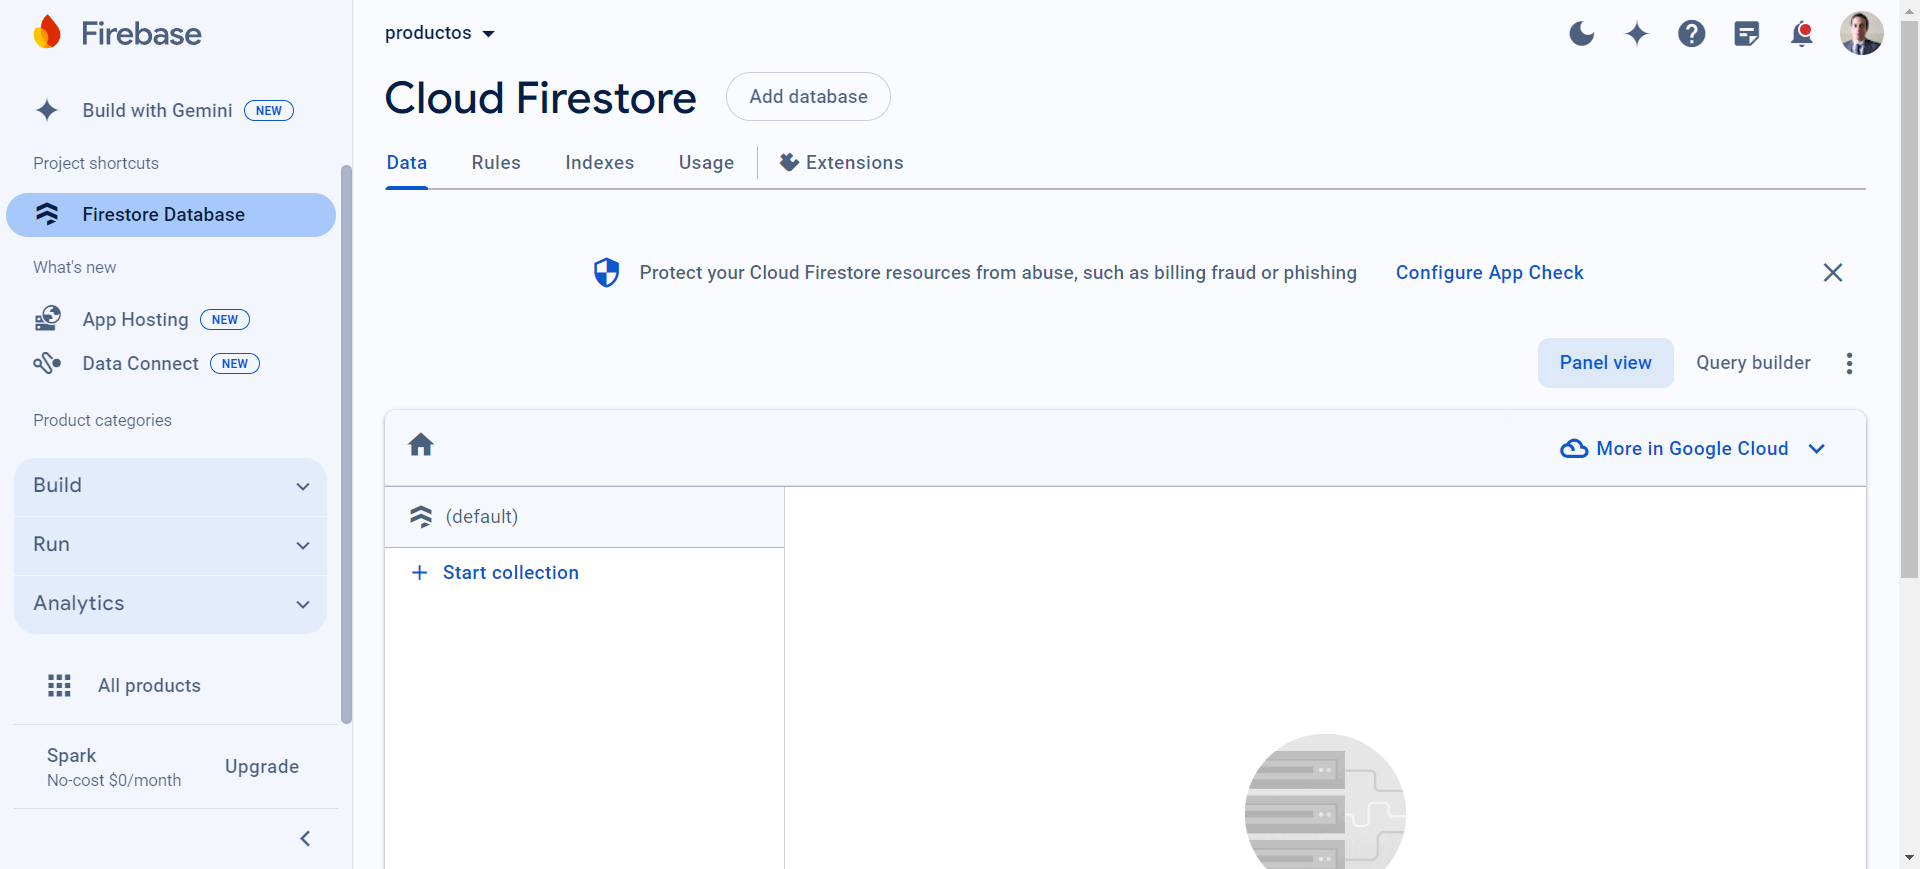
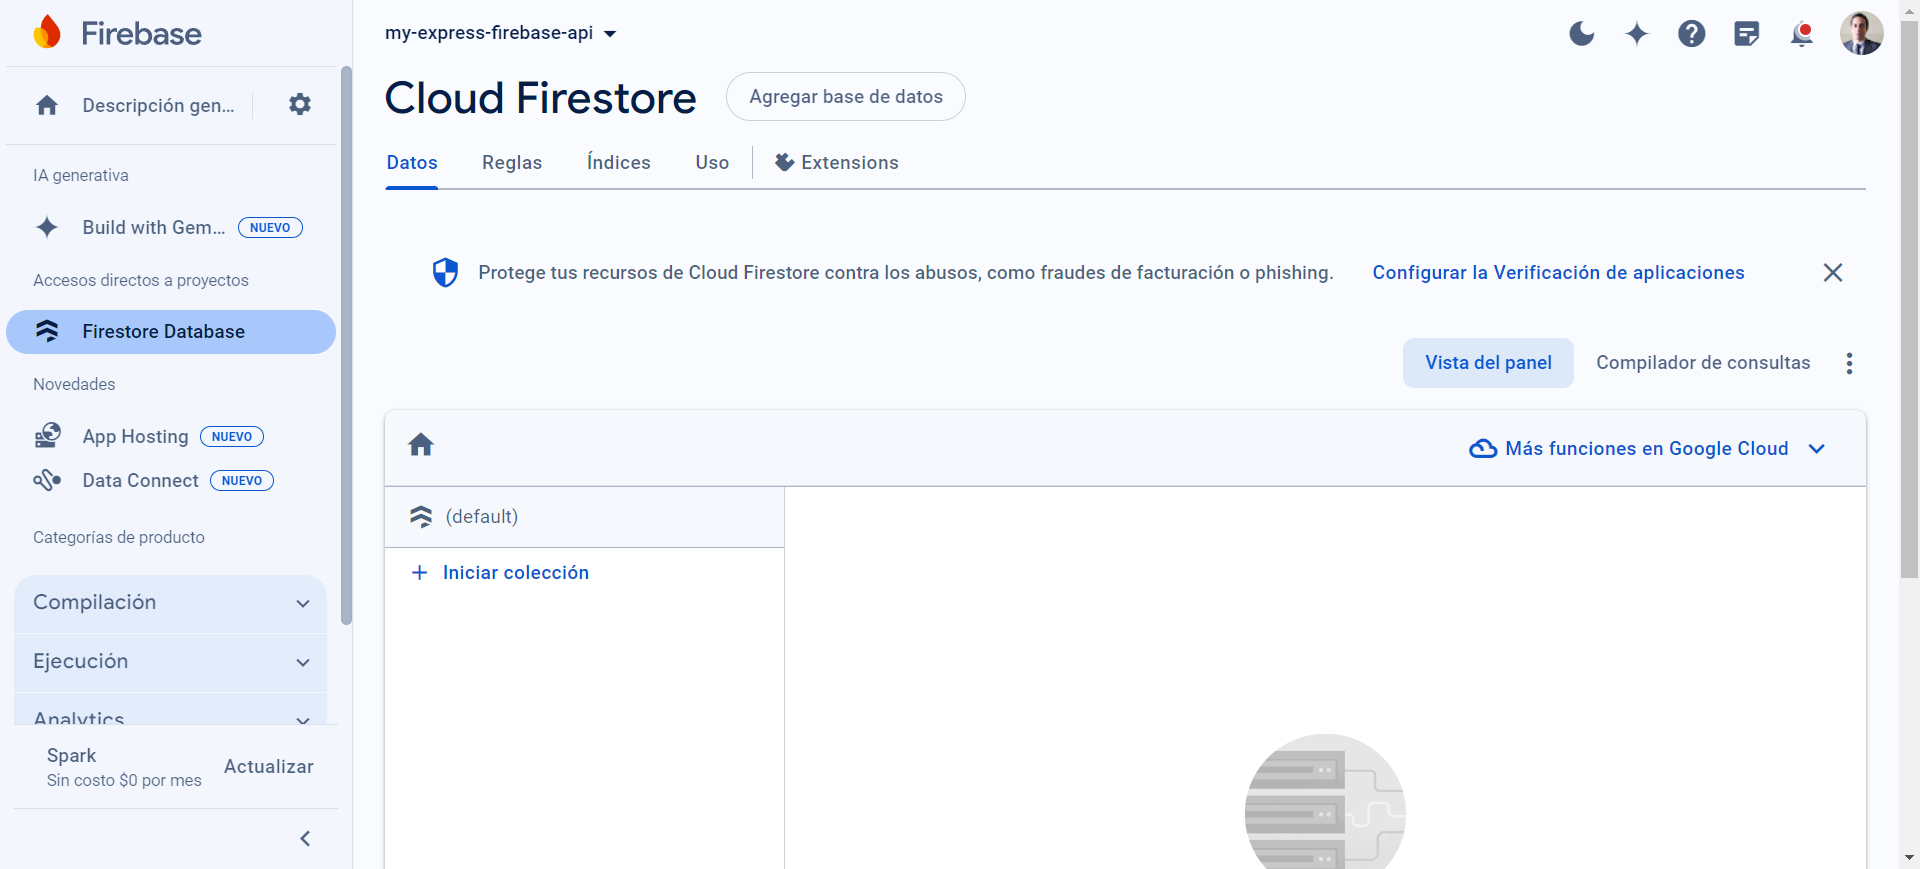
firebase firestore

diff --git a/tutoriales/firebase_firestore.md b/tutoriales/firebase_firestore.md
@@ -29,25 +29,28 @@ Firebase - Firestore
   <img width="550" src ="imagenes/firebase_firestore_init.png">
 </p>
 
-  + Durante el proceso de creación de la base de datos no relacional, habilite el _test mode_ para la edición por 30 días. 
+  + Durante el proceso de creación de la base de datos no relacional, habilite el _production mode_. 
 
 <p align="center">
   <img width="550" src ="imagenes/firebase_firestore_name.png">
-  <img width="550" src ="imagenes/firebase_firestore_testing.png">
+  <img width="550" src ="imagenes/firebase_firestore_production.png">
 </p> 
 
-* En la interfaz de **Firestore Database**
+## Clave de acceso
+
+* Desde la interfaz de **Firestore Database**, en la Descripción general, selecciona **Configuración del proyecto** 
 
 <p align="center">
-  <img width="550" src ="imagenes/firebase_firestore_index.png">
+  <img width="49%" src ="imagenes/firebase_firestore_index.png">
+  <img width="49%" src ="imagenes/firebase_firestore_gd.png">
 </p> 
 
-  + Agregue un nombre a la colección y agregue un documento (con o sin campos). 
+* Selecciona **Cuentas de servicio** y da clic en **Generar nueva clave privada**. De clic en **Generar clave** para descargar el archivo JSON. 
 
 <p align="center">
-  <img width="49%" src ="imagenes/firebase_firestore_collectionid.png">
-  <img width="49%" src ="imagenes/firebase_firestore_collectionfirst.png">
-</p> 
+  <img width="550" src ="imagenes/firebase_firestore_service.png">
+  <img width="550" src ="imagenes/firebase_firestore_newkey.png">
+</p>
 
 
 Referencias 
